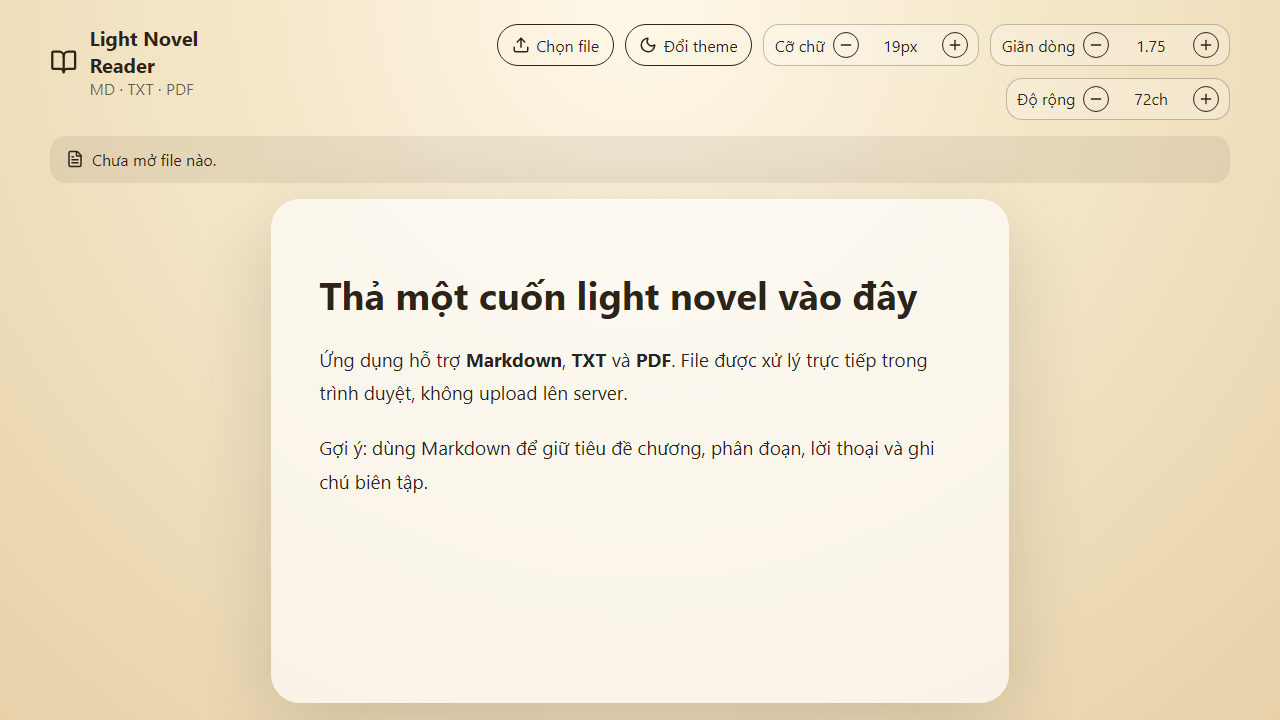
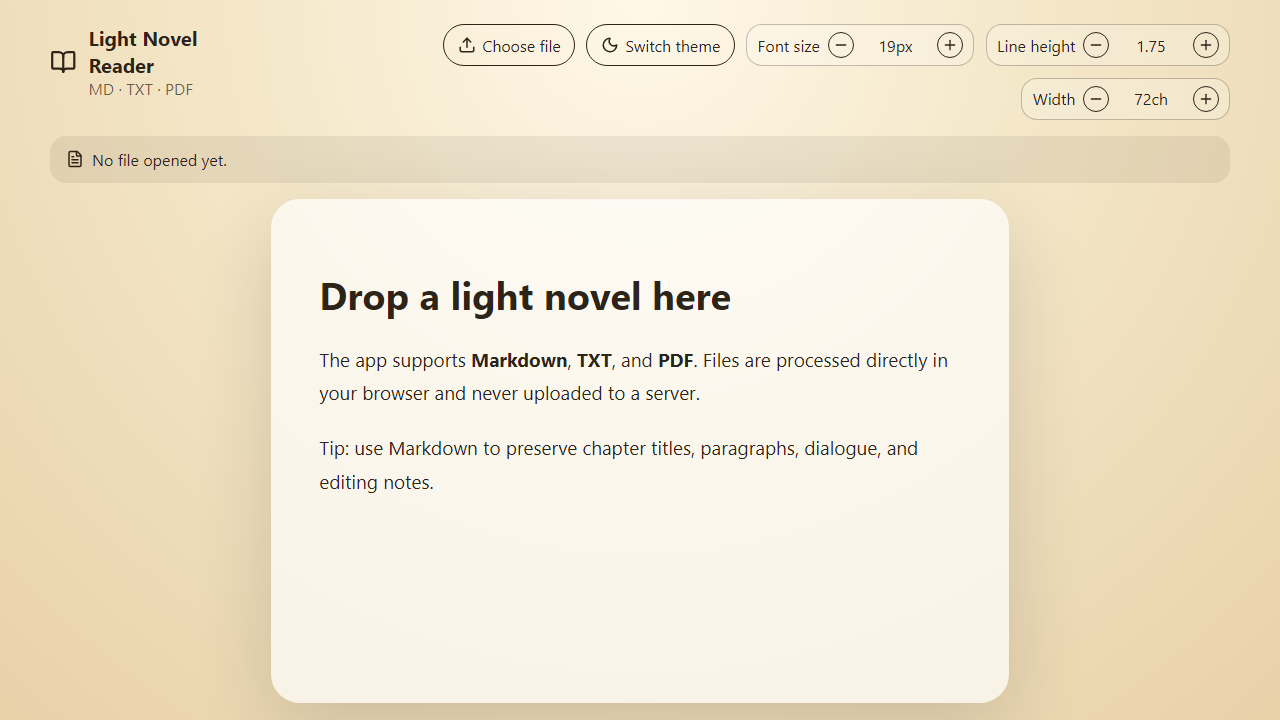
update

diff --git a/src/components/ReaderControls.tsx b/src/components/ReaderControls.tsx
@@ -15,10 +15,10 @@ export function ReaderControls({
   onFileSelect
 }: ReaderControlsProps) {
   return (
-    <aside className="controls" aria-label="Tuỳ chỉnh đọc truyện">
+    <aside className="controls" aria-label="Reader settings">
       <label className="file-picker">
         <Upload size={18} />
-        <span>Chọn file</span>
+        <span>Choose file</span>
         <input
           type="file"
           accept=".md,.markdown,.txt,.pdf,application/pdf,text/plain,text/markdown"
@@ -30,23 +30,23 @@ export function ReaderControls({
       </label>
 
       <button type="button" onClick={() => onThemeChange(preferences.theme)}>
-        <Moon size={18} /> Đổi theme
+        <Moon size={18} /> Switch theme
       </button>
 
       <ControlStepper
-        label="Cỡ chữ"
+        label="Font size"
         value={`${preferences.fontSize}px`}
         onDecrease={() => onPreferenceChange('fontSize', -1)}
         onIncrease={() => onPreferenceChange('fontSize', 1)}
       />
       <ControlStepper
-        label="Giãn dòng"
+        label="Line height"
         value={preferences.lineHeight.toFixed(2)}
         onDecrease={() => onPreferenceChange('lineHeight', -0.05)}
         onIncrease={() => onPreferenceChange('lineHeight', 0.05)}
       />
       <ControlStepper
-        label="Độ rộng"
+        label="Width"
         value={`${preferences.contentWidth}ch`}
         onDecrease={() => onPreferenceChange('contentWidth', -4)}
         onIncrease={() => onPreferenceChange('contentWidth', 4)}
@@ -70,11 +70,11 @@ function ControlStepper({
     <div className="stepper">
       <span>{label}</span>
       <div>
-        <button type="button" aria-label={`Giảm ${label}`} onClick={onDecrease}>
+        <button type="button" aria-label={`Decrease ${label}`} onClick={onDecrease}>
           <Minus size={16} />
         </button>
         <output>{value}</output>
-        <button type="button" aria-label={`Tăng ${label}`} onClick={onIncrease}>
+        <button type="button" aria-label={`Increase ${label}`} onClick={onIncrease}>
           <Plus size={16} />
         </button>
       </div>

diff --git a/src/App.tsx b/src/App.tsx
@@ -13,16 +13,16 @@ import {
 } from './lib/preferences';
 
 const sampleHtml = `
-  <h1>Thả một cuốn light novel vào đây</h1>
-  <p>Ứng dụng hỗ trợ <strong>Markdown</strong>, <strong>TXT</strong> và <strong>PDF</strong>. File được xử lý trực tiếp trong trình duyệt, không upload lên server.</p>
-  <p>Gợi ý: dùng Markdown để giữ tiêu đề chương, phân đoạn, lời thoại và ghi chú biên tập.</p>
+  <h1>Drop a light novel here</h1>
+  <p>The app supports <strong>Markdown</strong>, <strong>TXT</strong>, and <strong>PDF</strong>. Files are processed directly in your browser and never uploaded to a server.</p>
+  <p>Tip: use Markdown to preserve chapter titles, paragraphs, dialogue, and editing notes.</p>
 `;
 
 function App() {
   const [novel, setNovel] = useState<ParsedNovel | null>(null);
   const [preferences, setPreferences] = useState<ReaderPreferences>(defaultPreferences);
   const [isDragging, setIsDragging] = useState(false);
-  const [status, setStatus] = useState('Chưa mở file nào.');
+  const [status, setStatus] = useState('No file opened yet.');
 
   const readerStyle = useMemo(
     () => ({
@@ -35,13 +35,13 @@ function App() {
 
   async function openFile(file: File) {
     try {
-      setStatus(`Đang đọc ${file.name}...`);
+      setStatus(`Reading ${file.name}...`);
       const parsed = await parseNovelFile(file);
       setNovel(parsed);
-      setStatus(`Đã mở ${parsed.title} (${parsed.kind}).`);
+      setStatus(`Opened ${parsed.title} (${parsed.kind}).`);
     } catch (error) {
       setNovel(null);
-      setStatus(error instanceof Error ? error.message : 'Không thể đọc file.');
+      setStatus(error instanceof Error ? error.message : 'Unable to read this file.');
     }
   }
 

diff --git a/src/test/fileReaders.test.ts b/src/test/fileReaders.test.ts
@@ -10,17 +10,17 @@ describe('file reader helpers', () => {
   });
 
   it('renders markdown and strips unsafe scripts', () => {
-    const html = renderMarkdown('# Chương 1\n\n**Xin chào**<script>alert(1)</script>');
+    const html = renderMarkdown('# Chapter 1\n\n**Hello**<script>alert(1)</script>');
 
-    expect(html).toContain('<h1>Chương 1</h1>');
-    expect(html).toContain('<strong>Xin chào</strong>');
+    expect(html).toContain('<h1>Chapter 1</h1>');
+    expect(html).toContain('<strong>Hello</strong>');
     expect(html).not.toContain('<script>');
   });
 
   it('converts txt paragraphs into readable html', () => {
-    const html = txtToHtml('Dòng một\nDòng hai\n\nĐoạn mới');
+    const html = txtToHtml('Line one\nLine two\n\nNew paragraph');
 
-    expect(html).toContain('<p>Dòng một<br>Dòng hai</p>');
-    expect(html).toContain('<p>Đoạn mới</p>');
+    expect(html).toContain('<p>Line one<br>Line two</p>');
+    expect(html).toContain('<p>New paragraph</p>');
   });
 });

diff --git a/index.html b/index.html
@@ -1,5 +1,5 @@
 <!doctype html>
-<html lang="vi">
+<html lang="en">
   <head>
     <meta charset="UTF-8" />
     <meta name="viewport" content="width=device-width, initial-scale=1.0" />

diff --git a/src/lib/fileReaders.ts b/src/lib/fileReaders.ts
@@ -50,7 +50,7 @@ export async function parseNovelFile(file: File): Promise<ParsedNovel> {
   const title = file.name.replace(/\.[^.]+$/, '');
 
   if (kind === 'unsupported') {
-    throw new Error('Định dạng chưa hỗ trợ. Hãy chọn file .md, .txt hoặc .pdf.');
+    throw new Error('Unsupported format. Please choose a .md, .txt, or .pdf file.');
   }
 
   if (kind === 'pdf') {

diff --git a/README.md b/README.md
@@ -1,35 +1,35 @@
 # Light Novel Reader
 
-Ứng dụng web đọc light novel từ file cục bộ: Markdown (`.md`), text (`.txt`) và PDF (`.pdf`).
+A browser-based light novel reader for local Markdown (`.md`), text (`.txt`), and PDF (`.pdf`) files.
 
 ## Demo
 
 ![Light Novel Reader demo](docs/demo.png)
 
-## Tính năng MVP
+## MVP Features
 
-- Kéo-thả hoặc chọn file từ máy.
-- Render Markdown an toàn thành HTML.
-- Đọc TXT và giữ xuống dòng theo đoạn.
-- Trích xuất nội dung PDF bằng `pdfjs-dist`.
-- Tuỳ chỉnh theme sáng/tối/sepia, cỡ chữ, độ rộng dòng.
-- Không upload file; xử lý trong trình duyệt.
+- Drag and drop or choose a file from your device.
+- Safely render Markdown as HTML.
+- Read TXT files while preserving paragraph line breaks.
+- Extract PDF text with `pdfjs-dist`.
+- Customize light/dark/sepia themes, font size, line height, and content width.
+- No uploads; files are processed in the browser.
 
-## Chạy local
+## Run locally
 
 ```bash
 npm install
 npm run dev
 ```
 
-## Kiểm thử/build
+## Test/build
 
 ```bash
 npm test
 npm run build
 ```
 
-## Cấu trúc
+## Structure
 
 ```text
 src/